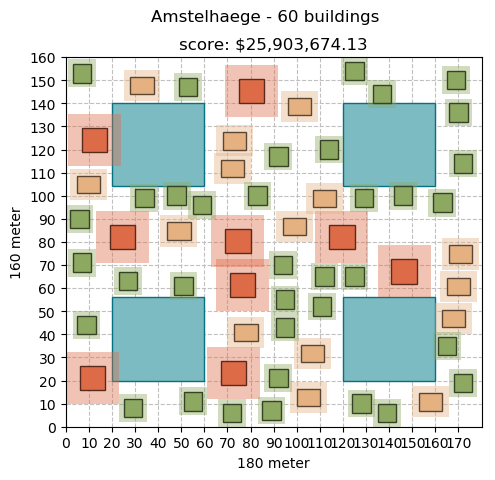
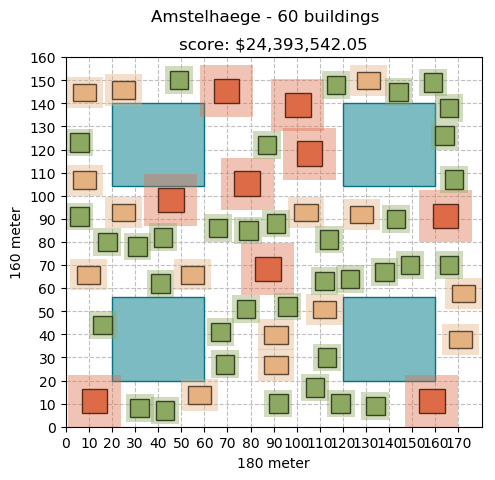
Updated README and small things of SA

diff --git a/amstelhaege/algorithms/simulatedannealing.py b/amstelhaege/algorithms/simulatedannealing.py
@@ -26,13 +26,13 @@ def SimulatedAnnealing():
     newScore = 0
 
     # define iterations
-    SIZE = 200
+    SIZE = 20000
 
     # define initial temperature and minimal temperature
     c = 1
     c_min = 0.000001
 
-    # define alpha, de cooling factor
+    # define alpha, the cooling factor
     a = 0.9
 
     while c > c_min:
@@ -53,7 +53,7 @@ def SimulatedAnnealing():
             # define acceptance probility
             ap = (oldScore - newScore) / c
             if ap > random.random():
-                # Calcualte total score
+                # Calculate total score
                 newScore = TotalScore.totalScore()
             # Decrease temperature
             c = c * a

diff --git a/README.md b/README.md
@@ -43,22 +43,81 @@ For creating a grid in Matplotlib, run:
 ```
 python grid.py
 ```
+You'll be asked to give an option for an algorithm:
+```
+Select option: 1. Hillclimber or 2. Simluated Annealing
+```
+Both Hillclimber and Simulated Annealing use the Random algorithm as input.
 
-Select the number of buildings to place
+### Random algorithm
 
+Select the number of buildings to place:
 ```
 20, 40 or 60
 ```
-After all the called functions within grid.py have run, grid.py will show a grid
-containing every house that has been instanced.
+The BuildingQueue function will build a list of buildings according to this amount.
+Maison will be added to the list first, as they are the biggest, than bungalows
+and than the houses.
 
-The BuildingGenerator function in BuildingGenerator.py is be called upon in
-grid.py, it creates instances of houses puts them in an array.
-To get unique x and y coordinates,the function getCoordinates from coordinates.py is called.
+The BuildingGenerator function creates instances of houses and puts them in a list.
+To get unique x and y coordinates,the function getCoordinates is called.
 
+GetCoordinates will generate coordinates and check for any collision with water
+or other already placed buildings. This is done by calling a few functions that
+check different aspects, such as overlap of buildings and overlap of freespace.
 
-Coordinates.py contains a function to iterate over all the coordinates of the already placed houses
-and check if the new coordinates don't match exisiting coordinates. This is done to avoid overlap of houses.
+When all the buildings have been added to the list by the BuildingGenerator function,
+a function to calculate the total score is being ran. This function is located in the
+classes.py file.
+
+This function calculates the score of all buildings from the just created list. It
+measures the distance between a building and its neighbours, selects the smallest distance
+and calculates a score from here. The scores from all buildings are being summed up.
+
+Last, but not least, the Grid function is being called. This function first places
+four waterbodies on the map, as testing has shown that this gives the best results.
+Then, it loops over the list of buildings and addes them to the map one by one.
+With a simple plt.show() statement will the map be plotted.
+
+### Hillclimber
+
+The Hillclimber starts by saving the old score from the Random algorithm.
+Then, it loops a given amount. In this loop it will randomly select two buildings from
+the Buildingsplaced list, the list that BuildingGenerator has filled.
+
+After this, it will select either to generated new coordinates for the first selected building, or swap the first with the second building. This will be chosen randomly.
+
+Generating new coordinates will be done the same way as with the Random algorithm.
+Once new coordinates are chosen and proven to be valid, a new score will be calculated.
+This score will be compared with the old score. If the score is not better, the coordinates
+will be turned to the previous ones. If it is better, that score will become the new score.
+
+When two buildings are swapped, checks for any collision will be done. If there is any,
+the two buildings will be swapped back. If not, a new score will be calulated and compared
+with the previous score. If it is the same or lower, the buildings will be swapped back.
+If the score is higher, that score will become the new score.
+
+In each iteration, a different building will be selected and one of the two methods to
+try to improve the score, will be applied.
+
+The last best score will be returned and picked up by grid, along with the updated list
+of buildings with their new coordinates. And of course, a new plot will be shown.
+
+### Simulated Annealing
+
+Simulated Annealing works almost the same as the Hillclimber. The only differences is
+that is it accepts some deteriorations. At the top of the algorithm, a temperature and
+a minimal temperature, along with an alpha, the cooling factor.
+
+Where the Hillclimber randomly selects a method to try to improve the score, the Simulated
+Annealing algorithm also defines an acceptance probility and checks if this is higher
+a random number between 0 and 1, it will calculate a new score.
+
+Then, it decreases the temperature by multiplying the temperature on the moment with
+the alpha. It also appends the score the a list of scores.
+
+Finally, it selects the highest score of the list and returns this number to grid.
+A new plot with updated buildings will be shown.
 
 ## Authors
 
